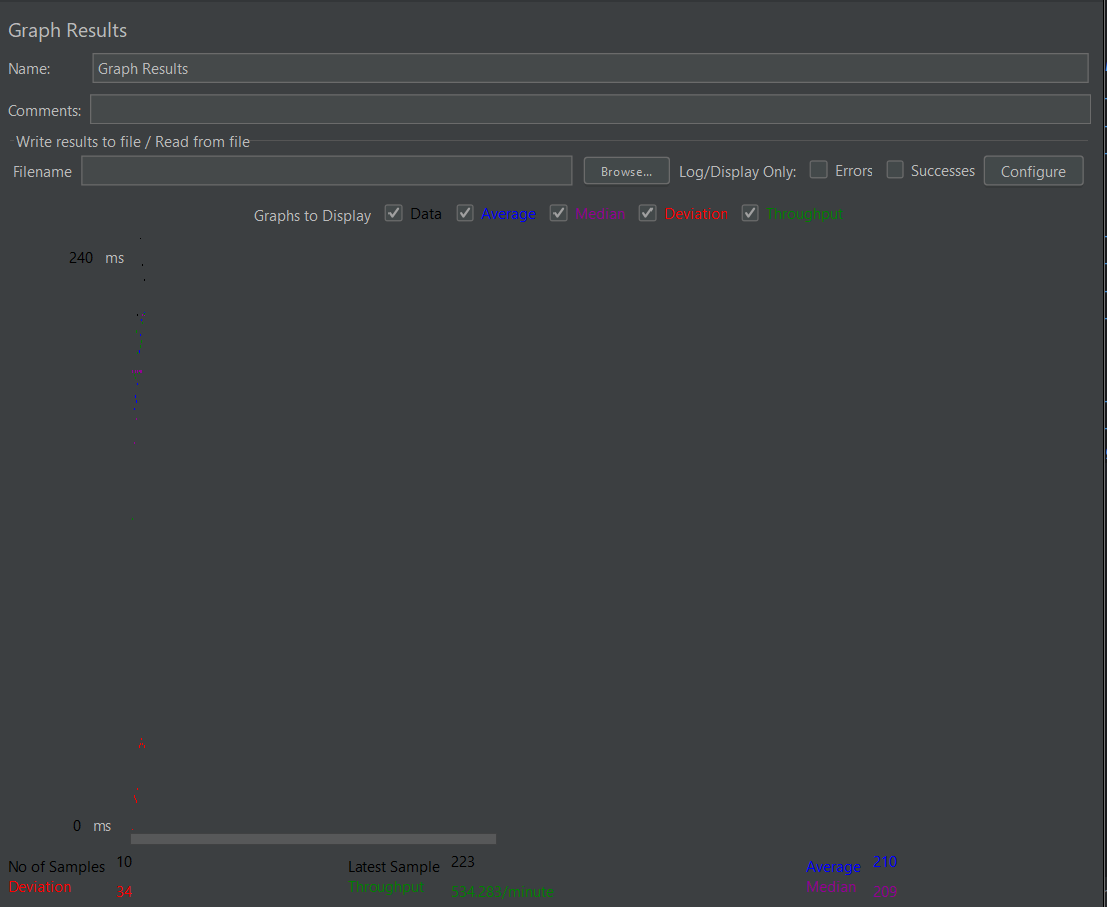
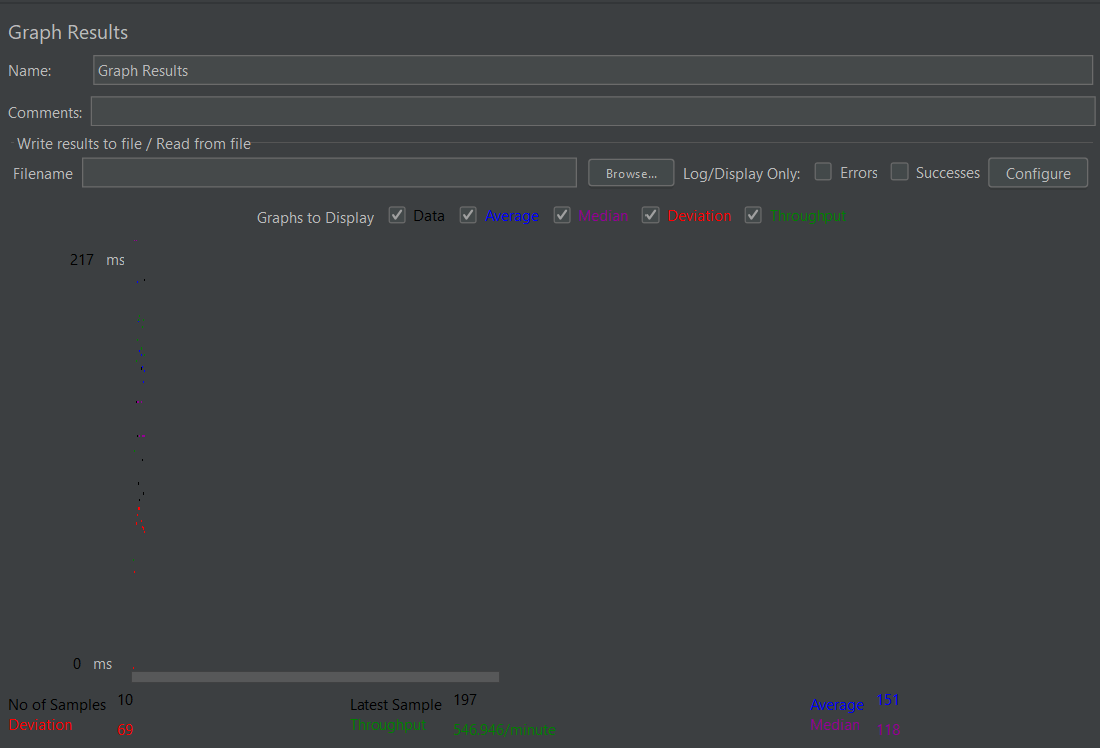
docs : editting README.md

diff --git a/README.md b/README.md
@@ -32,6 +32,16 @@
 ### TEST HIGHEST-GPA REQUEST JTL
 ![img_14.png](img_resources/img_14.png)
 
+### TEST ALL-STUDENT-NAME REQUEST AFTER OPTIMIZATION
+![img.png](img.png)
+![img_1.png](img_1.png)
+![img_2.png](img_2.png)
+![img_3.png](img_3.png)
+
+### TEST HIGHEST-GPA REQUEST AFTER OPTIMIZATION
+![img_4.png](img_4.png)
+
+
 #### Result :
 Terdapat peningkatan performa yang ditunjukkan sebelum optimasi dan setelah optimasi pada beberapa fungsi yang ada di student service di bagian proyek exercise-profiling.
 Peningkatan performa tersebut menunjukkan efketivitas dari proses optimasi yang dilakukan dan berdampak pada efisiensi runtime dan skalabilitas aplikasi.
